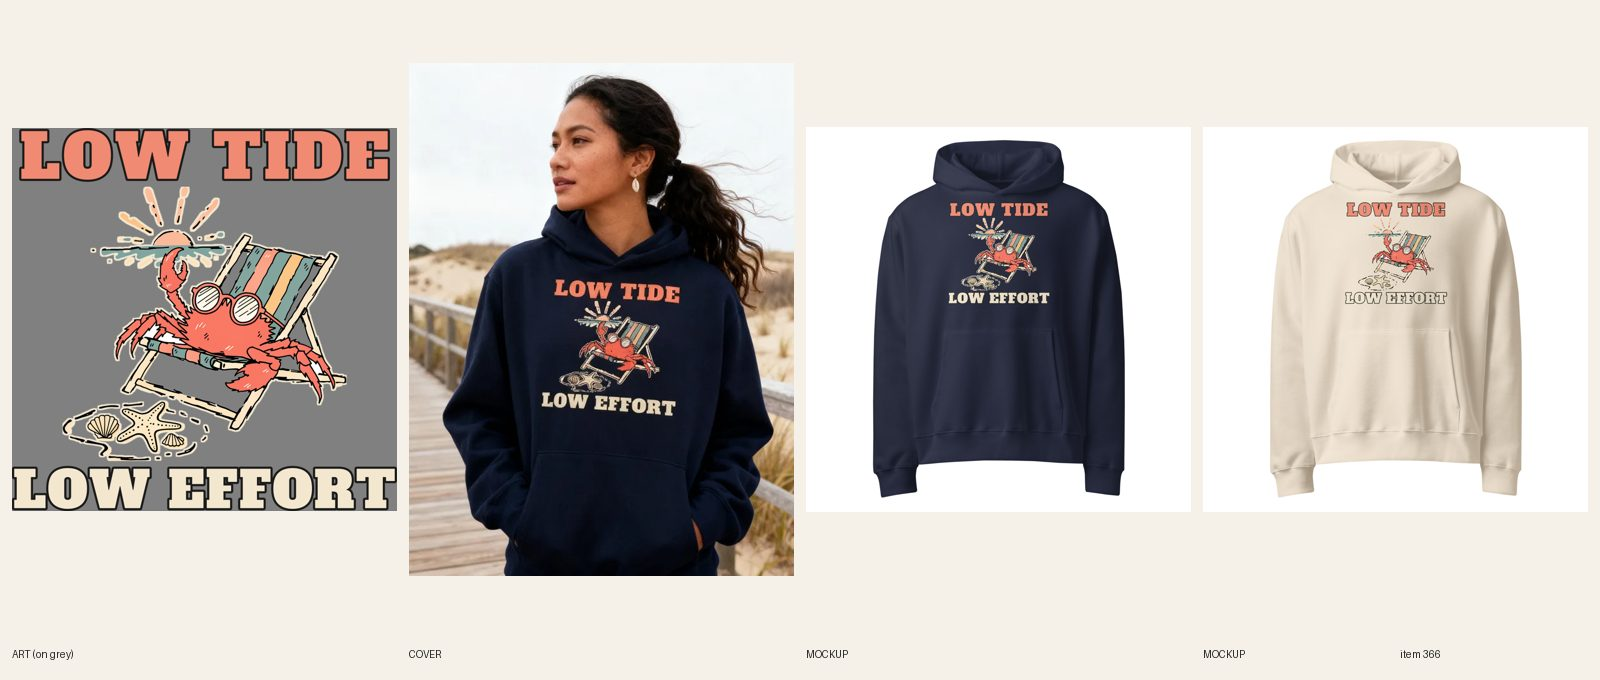
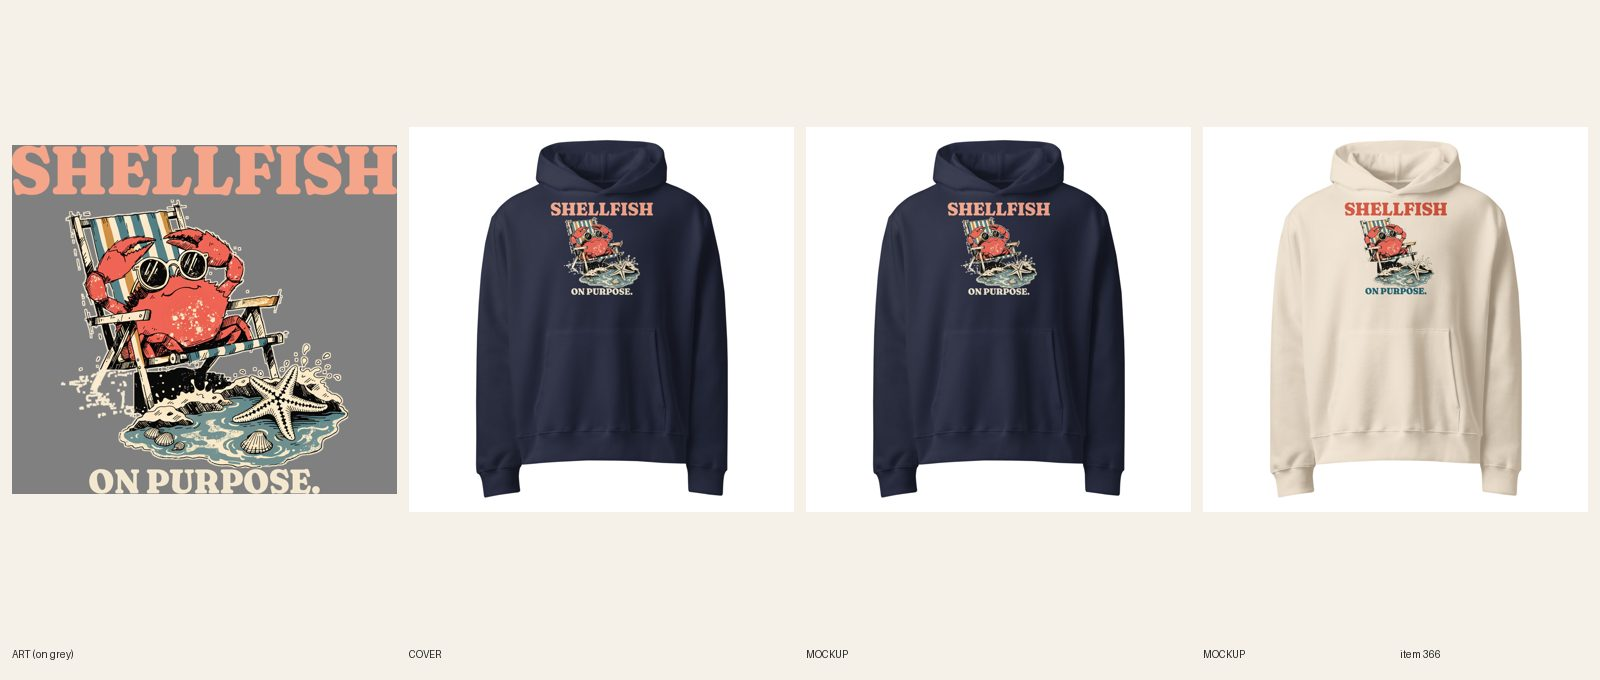
[E] review 366 Shellfish On Purpose beach oversized hoodie (line + type redo)

Changed region(s): [[0.0, 0.0926, 0.5, 0.8647], [0.8438, 0.2779, 0.9062, 0.4632], [0.5938, 0.2779, 0.6562, 0.4632]]

diff --git a/scripts/e-lockup.py b/scripts/e-lockup.py
@@ -1,0 +1,42 @@
+#!/usr/bin/env python3
+"""e-lockup.py <spec.json>  lane E redo lockup: top line / art / bottom line (bottom overlaps the art by `overlap` of its height).
+spec: {"art": "art.png", "out": "print.png", "W": 3600, "art_w": 0.72, "knock": 3000, "halo": 0, "halo_fill": "#f3e7cf", "fill_petals": false,
+ "top": {"text": "...", "font": "Bevan-Regular.ttf", "axes": [..], "w": 1.0, "fill": "#fff", "stroke": 0, "sfill": null},
+ "bottom": {... same}, "overlap": 0.10, "gap": 30, "erase": [[x0,y0,x1,y1,"dark"]]}
+Prints size, height at FW1500 and the line-height ratio. Art is run through scripts/print-prep.py (flood from border) + knock-white."""
+import json, subprocess, sys, tempfile, os
+from PIL import Image, ImageDraw, ImageFont, ImageFilter
+import numpy as np
+S = json.load(open(sys.argv[1])); W = S.get('W', 3600); F = 'designs/fonts/'
+def line(d, ref_w):
+    f0 = lambda size: (lambda f: (f.set_variation_by_axes(d['axes']) if d.get('axes') else None, f)[1])(ImageFont.truetype(F + d['font'], size))
+    size = 100; sk = d.get('stroke', 0); width = int(ref_w * d.get('w', 1))
+    while True:
+        f = f0(size); bb = f.getbbox(d['text'], stroke_width=sk)
+        if bb[2] - bb[0] >= width or size > 3500: break
+        size += 8
+    im = Image.new('RGBA', (bb[2] - bb[0] + 40, bb[3] - bb[1] + 40), (0, 0, 0, 0))
+    ImageDraw.Draw(im).text((20 - bb[0], 20 - bb[1]), d['text'], font=f, fill=d['fill'], stroke_width=sk, stroke_fill=d.get('sfill'))
+    return im.crop(im.getbbox())
+tmp = tempfile.mktemp(suffix='.png')
+a0 = Image.open(S['art']).convert('RGB')
+for x0, y0, x1, y1 in S.get('erase_dark', []):
+    arr = np.array(a0); reg = arr[y0:y1, x0:x1]; m = reg.max(2) < S.get("erase_thr", 70); reg[m] = 255; a0 = Image.fromarray(arr)
+a0.save(tmp)
+subprocess.run([sys.executable, 'scripts/print-prep.py', tmp, tmp, '--width', str(int(W * S.get('art_w', 0.72)))] + (['--solid'] if S.get('solid') else []), check=True, stdout=subprocess.DEVNULL)
+if S.get('knock', 3000): subprocess.run([sys.executable, 'scripts/knock-white.py', tmp, tmp, str(S.get('knock', 3000))], check=True, stdout=subprocess.DEVNULL)
+art = Image.open(tmp).convert('RGBA'); art = art.crop(art.getbbox()); os.remove(tmp)
+if S.get('halo'):
+    r = S['halo']; a = art.split()[3].point(lambda v: 255 if v > 40 else 0)
+    grown = a.filter(ImageFilter.MaxFilter(2 * r + 1)).filter(ImageFilter.GaussianBlur(2))
+    ring = Image.new('RGBA', art.size, S.get('halo_fill', '#f3e7cf')); ring.putalpha(grown)
+    pad = Image.new('RGBA', (art.width + 2 * r, art.height + 2 * r), (0, 0, 0, 0)); pad.alpha_composite(ring, (r, r)); pad.alpha_composite(art, (r, r)); art = pad
+gap = S.get('gap', 30)
+l1 = line(S['top'], W); l2 = line(S['bottom'], W if S['bottom'].get('ref', 'W') == 'W' else art.width)
+ov = int(art.height * S.get('overlap', 0.10))
+H = l1.height + gap + art.height + l2.height - ov
+o = Image.new('RGBA', (W, H), (0, 0, 0, 0))
+o.alpha_composite(art, ((W - art.width) // 2, l1.height + gap)); o.alpha_composite(l1, ((W - l1.width) // 2, 0))
+o.alpha_composite(l2, ((W - l2.width) // 2, H - l2.height))
+o = o.crop(o.getbbox()); o.save(S['out'], dpi=(300, 300))
+print(S['out'], o.size, 'tall in at FW1500:', round(o.height / o.width * 10, 1), 'l1/l2 h', round(l1.height / l2.height, 2), 'l1 w/art', round(l1.width / art.width, 2))

diff --git a/scripts/e-verify.py b/scripts/e-verify.py
@@ -1,0 +1,8 @@
+#!/usr/bin/env python3
+"""e-verify.py <sync_product_id>: synced count and default/back file ids per color."""
+import os, sys, json, urllib.request, collections
+r = urllib.request.Request(f'https://api.printful.com/sync/products/{sys.argv[1]}', headers={'Authorization': 'Bearer ' + os.environ['PRINTFUL_TOKEN'], 'User-Agent': 'gtc'})
+vs = json.load(urllib.request.urlopen(r))['result']['sync_variants']; d = collections.defaultdict(set); n = 0
+for v in vs:
+    n += v['synced']; d[v['name'].split(' / ')[1]].add(tuple(sorted((f['type'], f['id']) for f in v['files'] if f['type'] in ('default', 'front', 'back'))))
+print(f'{n}/{len(vs)} synced'); [print(c, s) for c, s in d.items()]

diff --git a/scripts/e-prev.py b/scripts/e-prev.py
@@ -1,0 +1,11 @@
+#!/usr/bin/env python3
+"""e-prev.py out.png file:R,G,B [file:R,G,B ...]  side-by-side preview of prints on garment colors (quarter size or fit to 900 px tall)."""
+import sys
+from PIL import Image
+ims = []
+for a in sys.argv[2:]:
+    p, c = a.rsplit(':', 1); im = Image.open(p).convert('RGBA'); s = 800 / im.height; im = im.resize((int(im.width * s), 800))
+    n = Image.new('RGB', im.size, tuple(int(x) for x in c.split(','))); n.paste(im, mask=im); ims.append(n)
+o = Image.new('RGB', (sum(i.width for i in ims), 800)); x = 0
+for i in ims: o.paste(i, (x, 0)); x += i.width
+o.save(sys.argv[1])

diff --git a/docs/pipeline/366-beach-oversized-low-tide-low-effort.md b/docs/pipeline/366-beach-oversized-low-tide-low-effort.md
@@ -1,4 +1,4 @@
-status: REDO
+status: REVIEW
 lane: E
 type: new
 id: 366
@@ -29,3 +29,4 @@ kd: 39
 - 2026-10-17 20:02 UTC builder [E]: REVIEW. Art: Recraft v4 picture only (2 calls: 1st had solid black ground blobs, redrawn light linework), words set with compose-print.py (Alfa Slab coral + cream, dark outline), thin cream keyline (halo 10), enclosed chair/seat whites knocked out with knock-white (lens whites kept as planned ink). Print 3219x3203, FW 1500 TOP 0. R6.2 ok. Printful file 1088447931, sync product 482403202 12/12. Mockups Navy + Dust fronts + back attached per color; phone read OK. Copy re-checked against the art (red crab, one claw up, sun, tide pool with starfish and shells); FAQ 5 Qs 48-50 words, order-by Dec 8. Cover: registry 557, woman on a cold boardwalk, seedream 1 attempt, hair tied back, both lines legible, hood visible. fal ~$0.20 (2 art + 1 cover). audit-local PASS. design-crops/variant-photo-audit need the published page.
 - 2026-10-17 20:16 UTC director: APPROVED, LIVE. ACTIVE + published Online Store, Headless, Google; cohesion-audit --handle PASS.
 - 2026-10-18 17:22 UTC director: QUALITY RESET grade C (new line + type), REDO. The product stays ACTIVE (same handle, URL, title keyword). 1. Line (R3.12, quality-reset 'Lines'): "LOW TIDE / LOW EFFORT": Mild rhyme-pun, describes the lounging crab. Write 5 candidates, keep the one a stranger laughs at in 3 seconds without backstory; kill lines that only describe the picture; if none of the 5 is funny, PARK it. 2. Quality reset type bar (docs/backlog/quality-reset.md, 'The new bar'): headline at least 90% of the art width, heavy, colors pulled from the art; second line at least 45% of the headline's height, never a thin script on a dark or mid garment; use the lettering as a shape (arch, stacked lockup, words breaking into the art), not a plain bar above and a script line below; no font used on more than 1 in 6 of the last 30 designs. 3. Keep the art if it carries the new line, else one new illustration (R4/R5). New print means a new cover per R6.10, copy line one rewritten for the new joke (R8.3), and a fresh review sheet (R7.7). While quality-reset.md says PAUSED, only lane A builds, and only the samples step 2 names.
+- 2026-10-20 04:15 UTC builder [E]: REDO 366 (C grade, line + type) done on the existing product (stays ACTIVE, handle unchanged). 5 candidates: "SHELLFISH ON PURPOSE."; "Crabby, Coastal, Done"; "Low Tide, Low Effort" (old); "Out Of Office, Into The Sand"; "Not Crabby, Just Off The Clock". Kept SHELLFISH / ON PURPOSE. (a crab choosing to be selfish, 3 seconds, the sunglasses carry it). One new Recraft call ($0.04): smug crab in a beach chair, no words; ground-shadow blob at the lower left painted out. Fraunces Black soft: SHELLFISH at full print width, ON PURPOSE. below (about 50% of the headline height). Navy file 1090132054 (coral + cream, thin cream halo); Dust file 1090132104 (vermilion + teal, no cream fill on a light blank: light file logged for Dust). FW 1500 TOP 0 (9.1 in tall), 12/12 synced on the right file per color, back logo kept. Fronts replaced in place, alts updated, title/SEO/copy/FAQs rewritten, ink named from the mockups. Cover: handle added to retired-covers.json (plain product shot). Phone-size read OK on both. audit --handle PASS 0 warn; astro build OK. fal $0.04. Sheet docs/review/366.jpg.

diff --git a/docs/intake-log.md b/docs/intake-log.md
@@ -1,4 +1,5 @@
 RUNNING director since 2026-10-20 03:12 UTC
+2026-10-20 04:16 UTC — [E] Builder run: redid #366 Women's Beach oversized hoodie (line + type: SHELLFISH ON PURPOSE., new crab art, Navy + Dust files, 12/12 synced, copy updated, plain product shot). REVIEW. fal $0.04.
 RUNNING lane E since 2026-10-20 02:50 UTC
 2026-10-20 03:51 UTC — [E] Builder run: redid #365 Men's Skull zip hoodie (line + type: FORMER LIFE OF THE PARTY, same party skull, Navy + Ash back files, 12/12 synced, back mockups replaced in place, copy updated, plain product shot). REVIEW. fal $0.
 2026-10-20 03:18 UTC — [A] Builder run: redid #221 Women's Christmas Nurse crewneck (type+line: CHECKING IT TWICE. / CHARTING IT THREE TIMES., same cap and stethoscope art, Alfa Slab full width, FW 1650 TOP 75, file 1090125893, 30/30 relinked, 5 fronts replaced in place, copy updated, plain product shot). REVIEW. fal $0.
